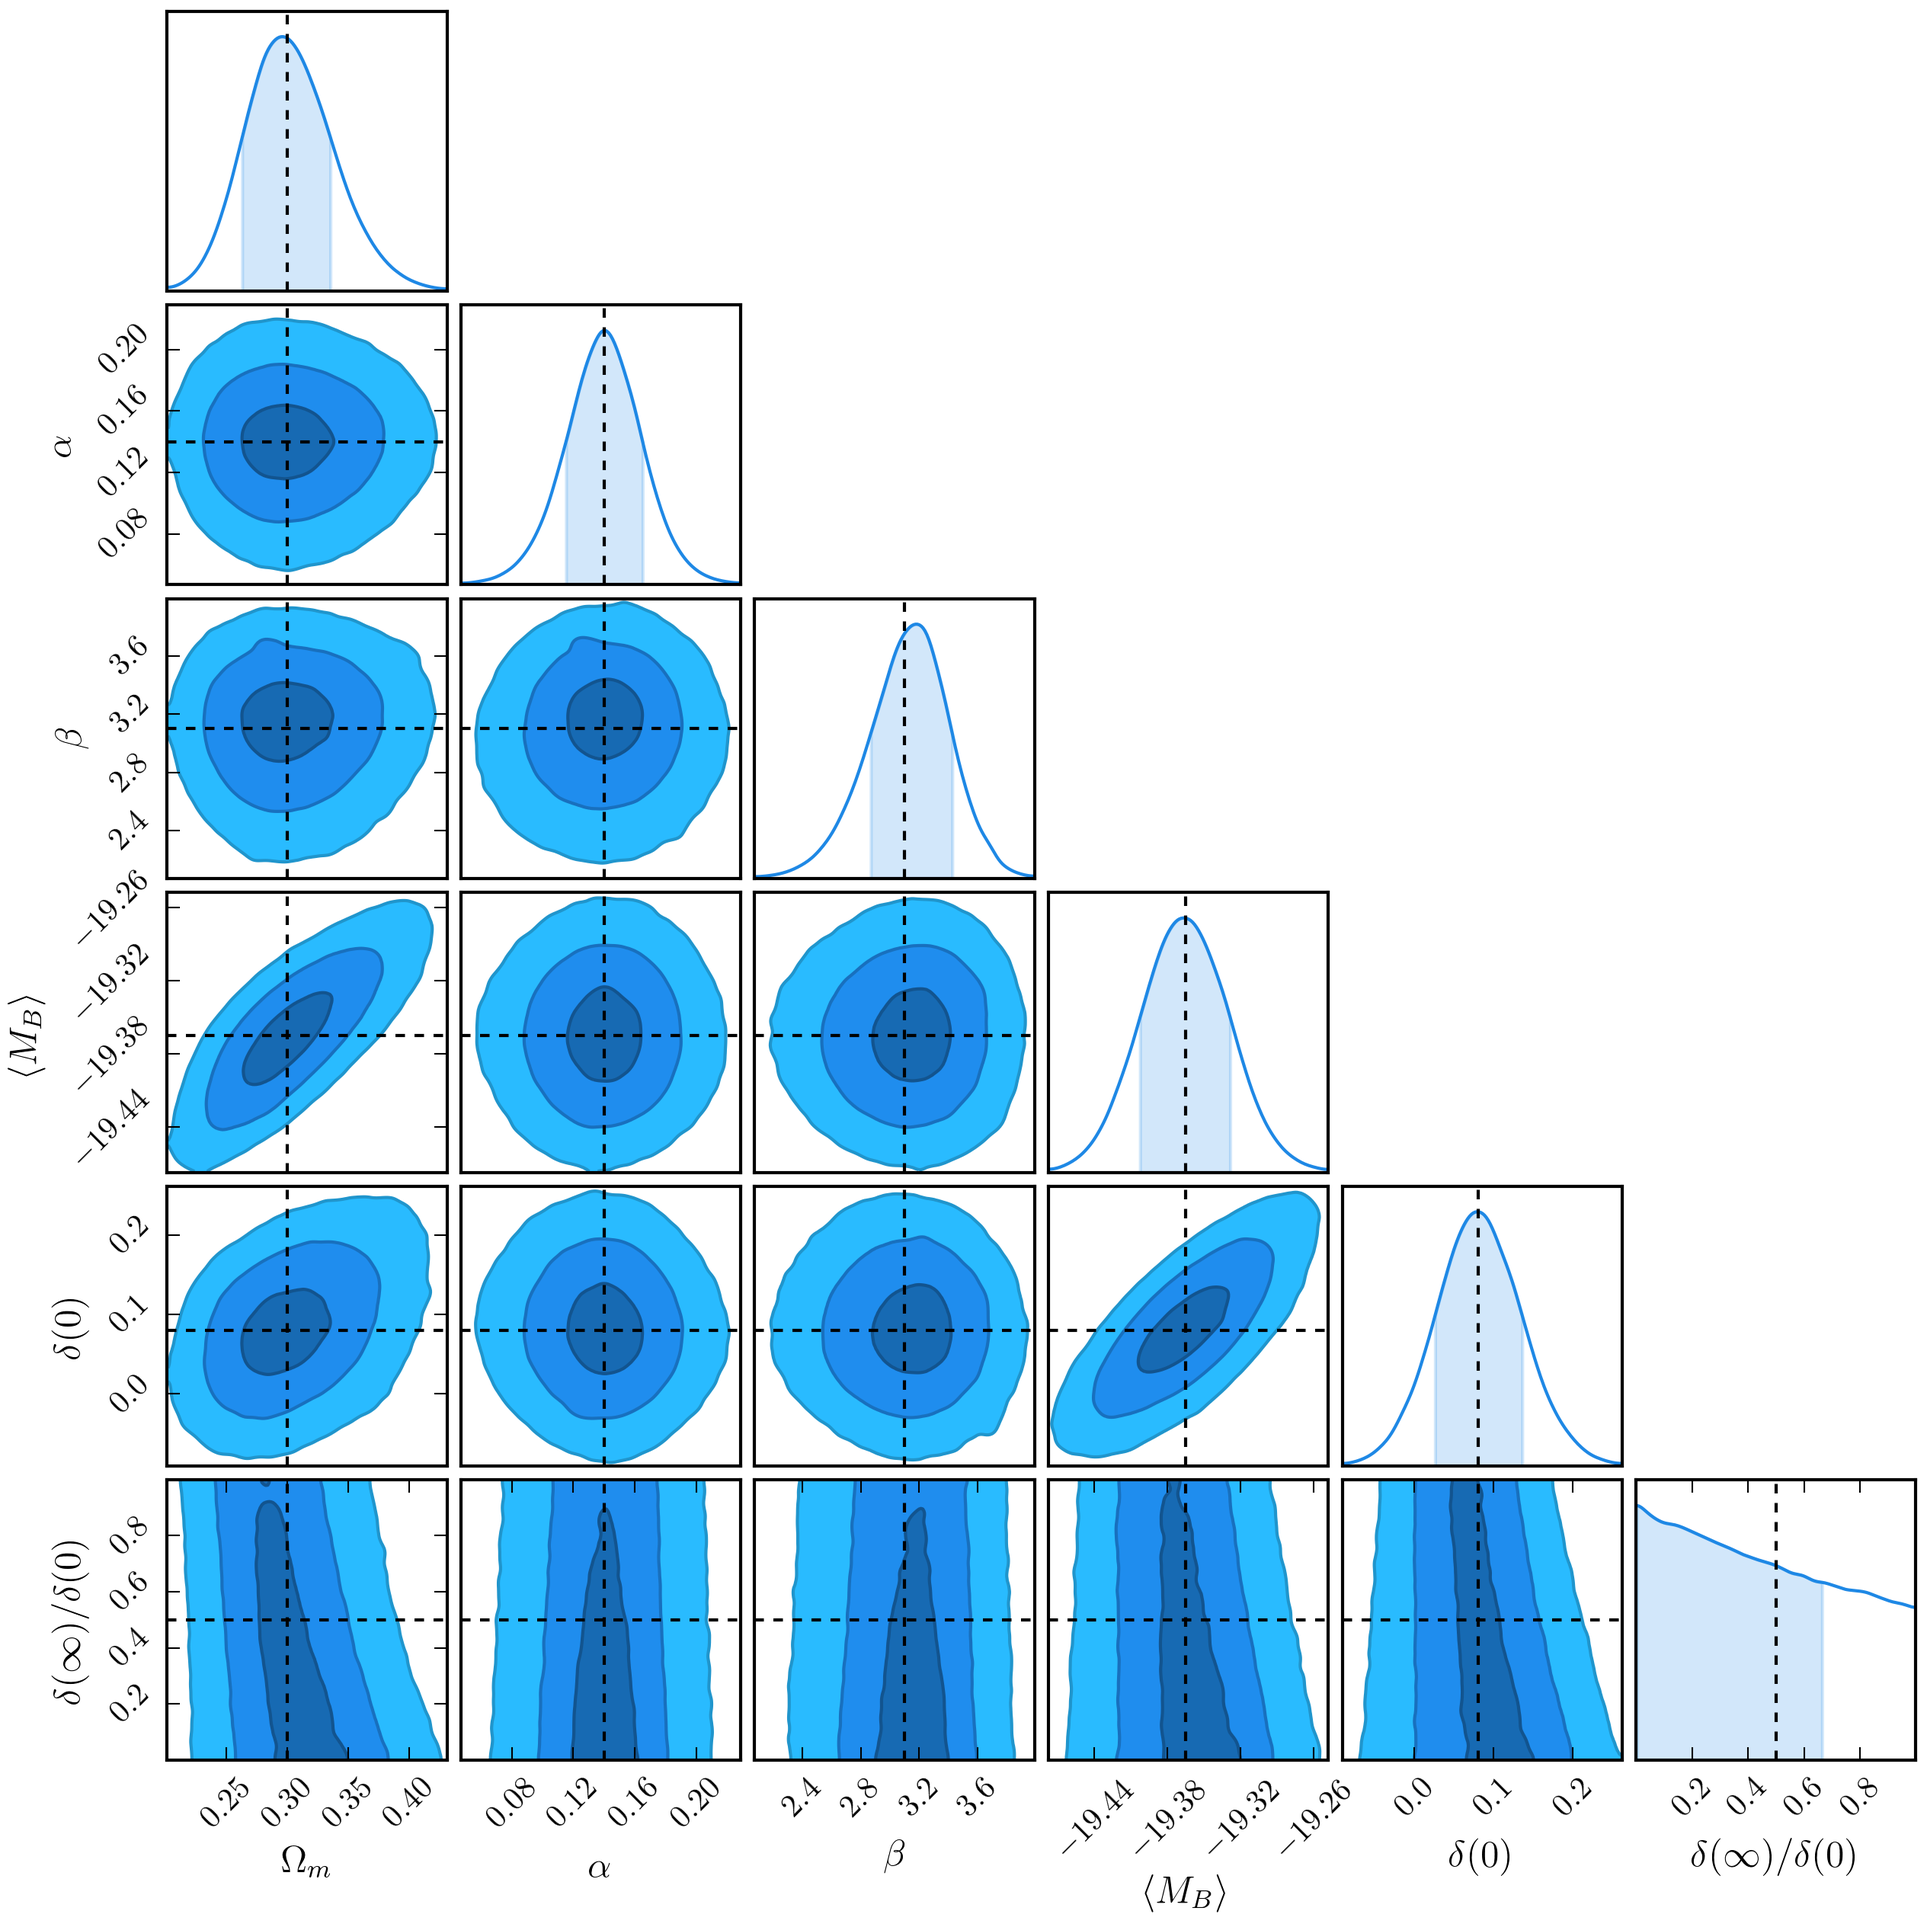
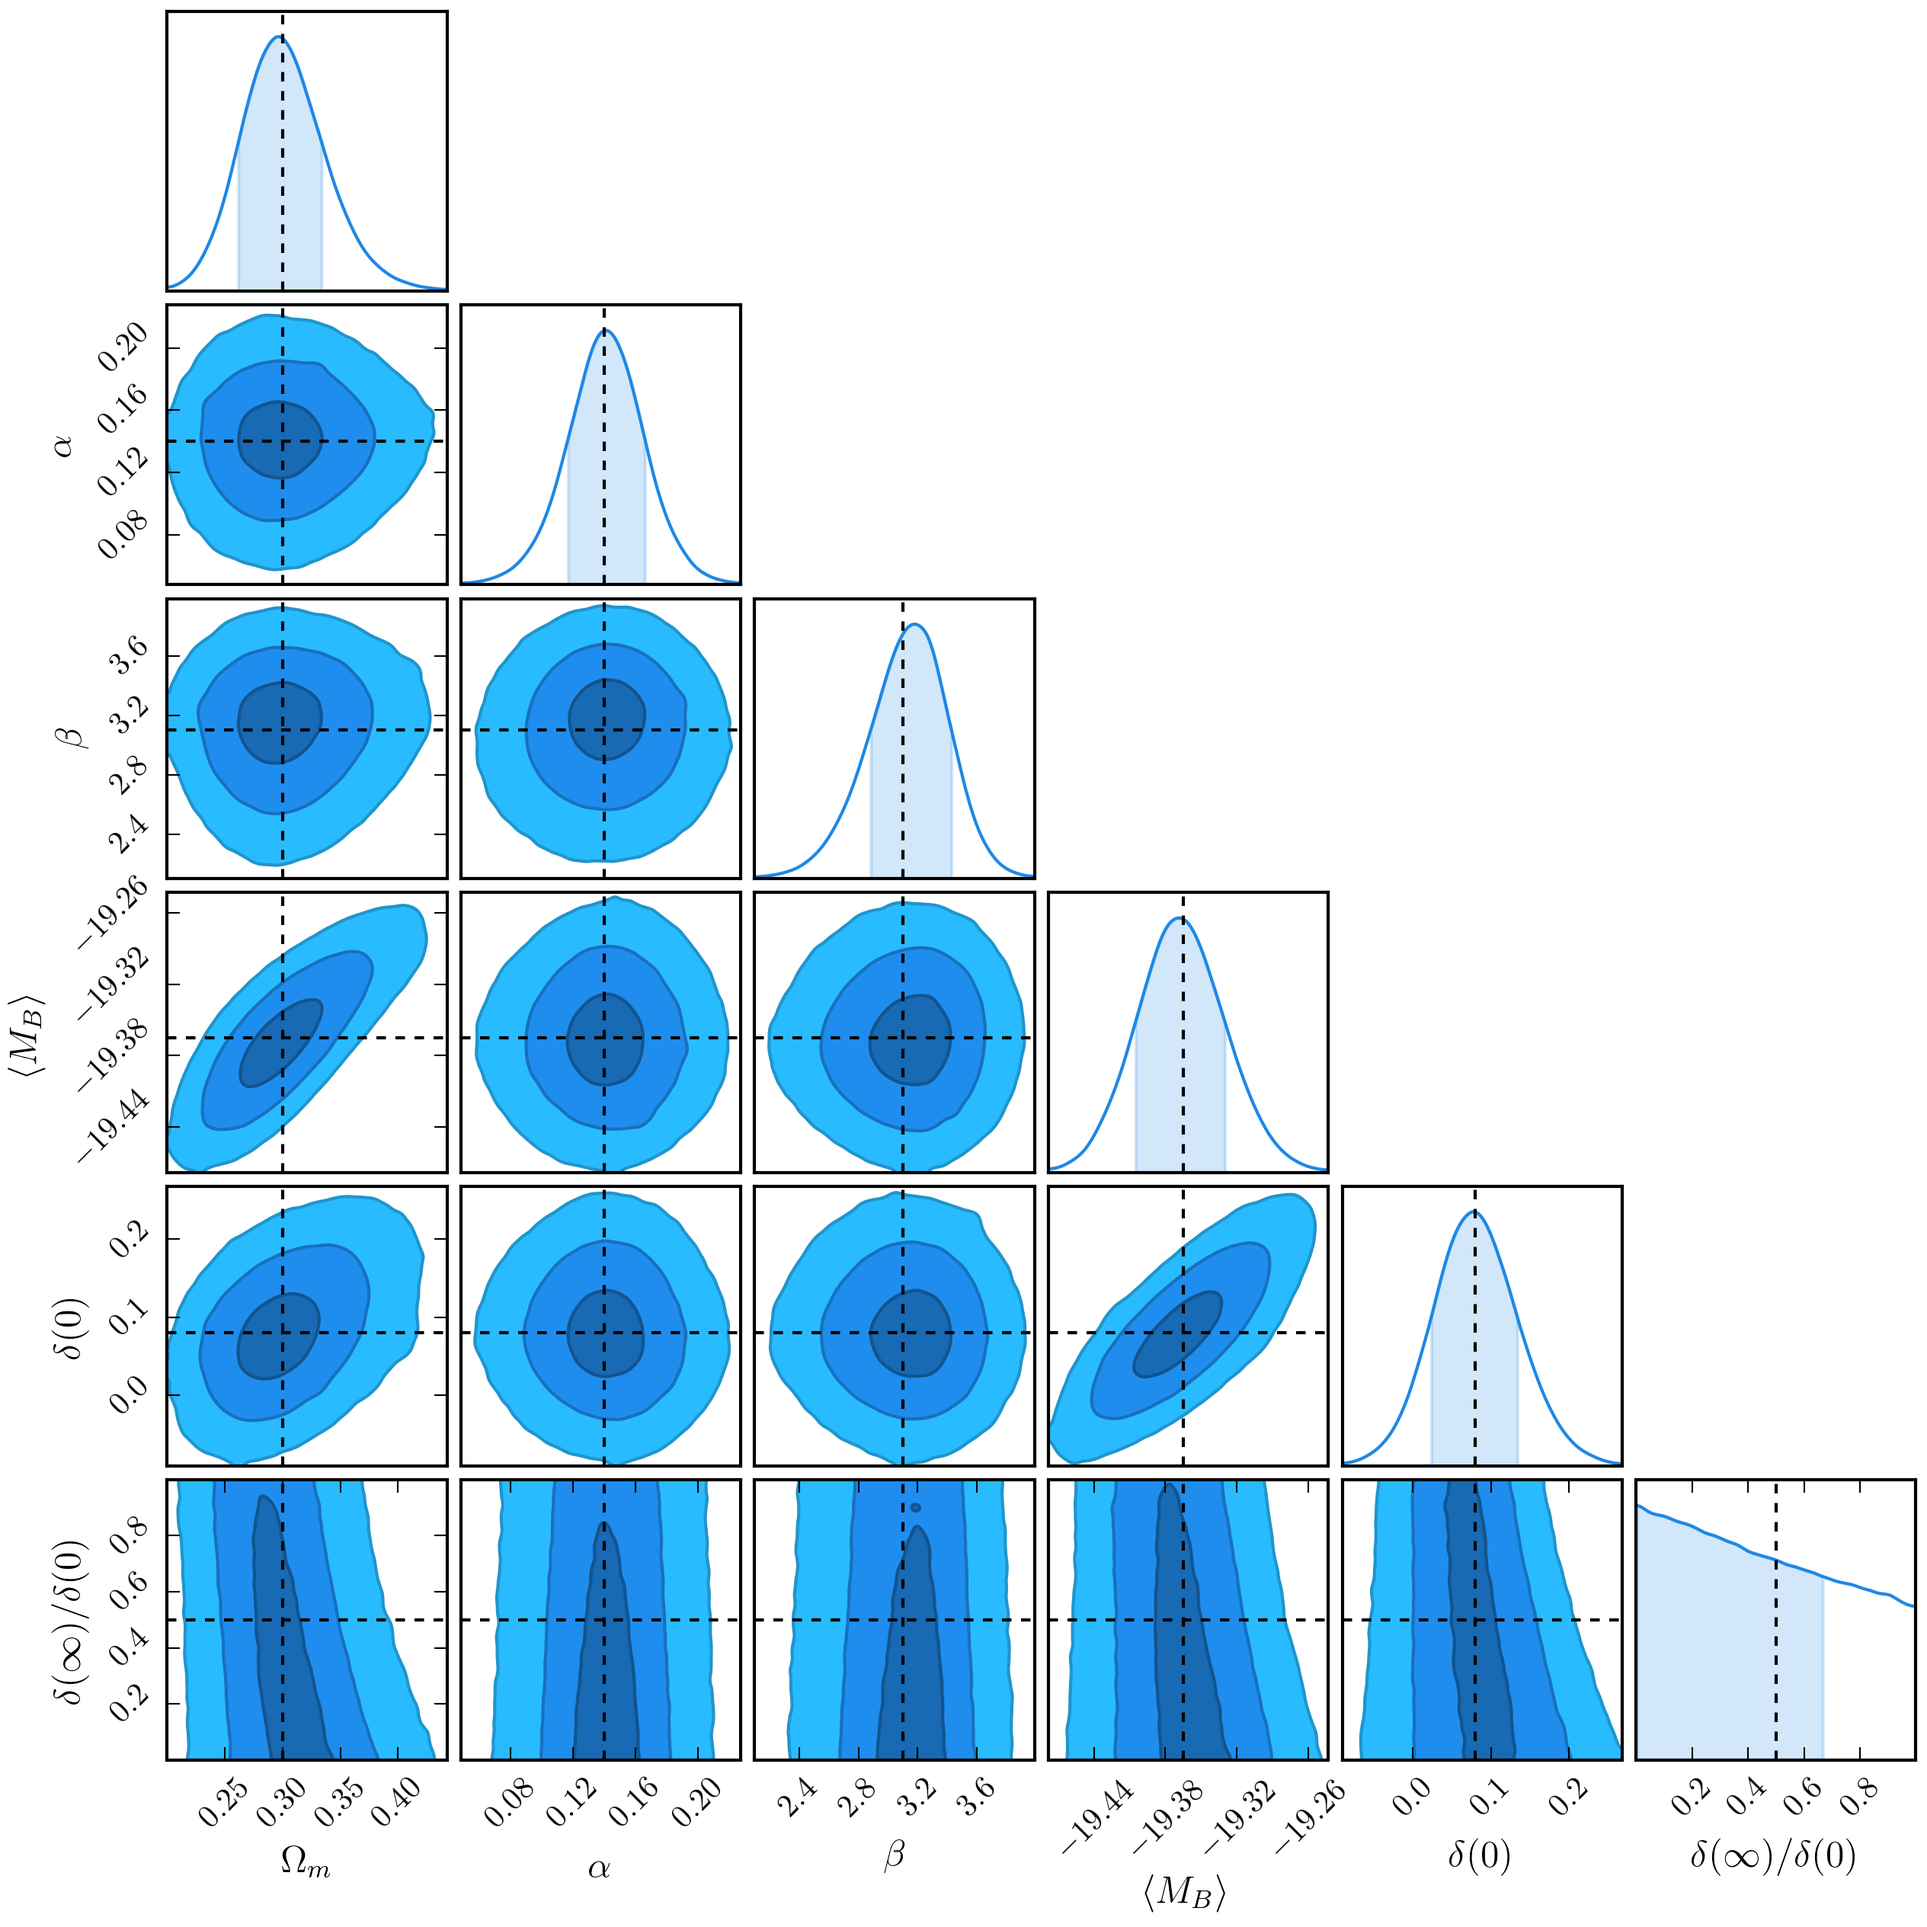
Forcing lowz to be cdf

diff --git a/dessn/framework/simulation.py b/dessn/framework/simulation.py
@@ -24,10 +24,41 @@ class Simulation(ABC):
         binc = 0.5 * (bins[:-1] + bins[1:])
         hist_all[hist_all == 0] = 1
         ratio = hist_passed / hist_all
+        ratio_smooth = gaussian_filter1d(ratio, 2)
 
-        is_cdf = ratio[:5].mean() > 0.8
+        is_cdf = True or ratio[:5].mean() > 0.8
+        if not is_cdf:
+            # Inverse transformation sampling to sample from this random pdf
+
+            cdf = ratio_smooth.cumsum()
+            cdf = cdf / cdf.max()
+            cdf[0] = 0
+            cdf[-1] = 1
+            n = 100000
+            u = np.random.random(size=n)
+            y = interp1d(cdf, binc)(u)
+
+            alpha, mean, std = skewnorm.fit(y)
+
+            if np.abs(alpha) > 5:
+                is_cdf = True
+            else:
+                normm = ratio.max()
+                self.logger.info("Fitted skewnorm efficiency to have mean %0.2f, std %0.2f and alpha %0.2f" % (mean, std, alpha))
+
+                if plot:
+                    import matplotlib.pyplot as plt
+                    plt.plot(binc, ratio, label="Ratio")
+                    plt.plot(binc, ratio_smooth, label="Ratio smoothed")
+                    plt.plot(binc, skewnorm.pdf(binc, alpha, mean, std), label="PDF")
+                    plt.hist(y, 100, histtype='step', normed=True, label="Sampled Hist")
+                    plt.legend()
+                    plt.show()
+                    exit()
+
         if is_cdf:
-            ratio_smooth = gaussian_filter1d(ratio, 2)
+            ratio_smooth[:ratio_smooth.argmax()] = ratio_smooth.max()
+            ratio_smooth /= ratio_smooth.max()
             vals = [0.5 - 0.68/2, 0.5, 0.5 + 0.68/2]
             mags = interp1d(ratio_smooth, binc)(vals)
             mean = mags[1]
@@ -40,32 +71,6 @@ class Simulation(ABC):
                 plt.plot(binc, ratio, label="Ratio")
                 plt.plot(binc, ratio_smooth, label="Ratio smoothed")
                 plt.plot(binc, 1 - norm.cdf(binc, mean, std), label="PDF")
-                plt.legend()
-                plt.show()
-                exit()
-
-        else:
-            # Inverse transformation sampling to sample from this random pdf
-            ratio_smooth = gaussian_filter1d(ratio, 2)
-
-            cdf = ratio_smooth.cumsum()
-            cdf = cdf / cdf.max()
-            cdf[0] = 0
-            cdf[-1] = 1
-            n = 100000
-            u = np.random.random(size=n)
-            y = interp1d(cdf, binc)(u)
-
-            alpha, mean, std = skewnorm.fit(y)
-            normm = ratio.max()
-            self.logger.info("Fitted skewnorm efficiency to have mean %0.2f, std %0.2f and alpha %0.2f" % (mean, std, alpha))
-
-            if plot:
-                import matplotlib.pyplot as plt
-                plt.plot(binc, ratio, label="Ratio")
-                plt.plot(binc, ratio_smooth, label="Ratio smoothed")
-                plt.plot(binc, skewnorm.pdf(binc, alpha, mean, std), label="PDF")
-                plt.hist(y, 100, histtype='step', normed=True, label="Sampled Hist")
                 plt.legend()
                 plt.show()
                 exit()

diff --git a/dessn/configurations/approximate_snana_test.py b/dessn/configurations/approximate_snana_test.py
@@ -21,11 +21,11 @@ if __name__ == "__main__":
 
     model = ApproximateModel()
     # Turn off mass and skewness for easy test
-    # simulation = [SNANASimulationLowzGauss0p3(200), SNANASimulationGauss0p3(300)]
-    simulation = SNANASimulationGauss0p3(500)
+    simulation = [SNANASimulationLowzGauss0p3(200), SNANASimulationGauss0p3(300)]
+    # simulation = SNANASimulationGauss0p3(500)
 
     #lowzs, dess = simulation
-    # print(lowzs.get_approximate_correction(plot=True))
+    #print(lowzs.get_approximate_correction(plot=True))
     # print(dess.get_approximate_correction())
 
     fitter = Fitter(dir_name)
